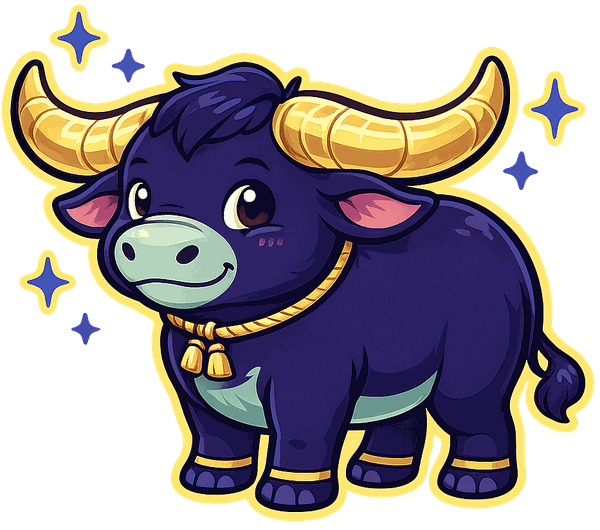
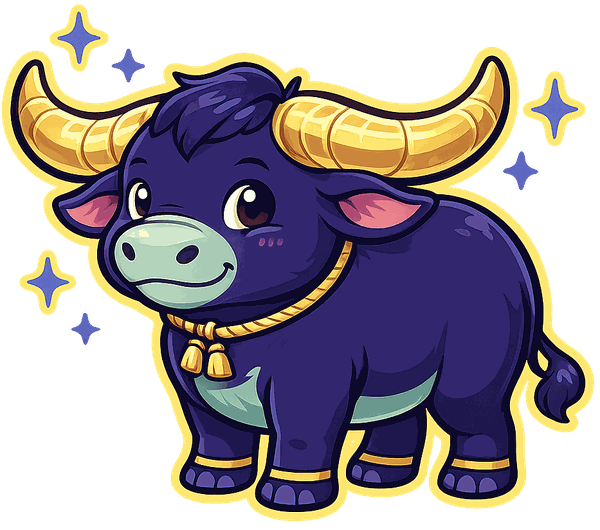
Mascots go a shade lighter — the lightest navy on all 11 (sw v619)
The v615 pass used the deepest of three navy settings. Reviewed at all four
depths side by side, the owner took the LIGHTEST on every one: the deep setting
had pushed several mascots below where the artwork wanted to sit, and the
difference is only 2-3 points of lightness but it reads.

Body fills now sit within a couple of points of --accent (#261B65, L25) —
gecko #2C216B L27, tiger #261B65 L25, khwai #31266D L29.

⚠ betta (L17), meditator (L12) and muaythai (L16) are still the dark ones, and
that is the SOURCE ARTWORK, not the preset: they were L19 / L13 / L18 in the
original purple. A hue rotation can only move the pixels that are there. Those
three want regenerating rather than re-hueing, which the owner is planning.

The LOGO is deliberately unchanged. It stays anchored on #261B65 exactly, so
the mark and the site are one colour rather than two near-misses — reviewed
against three lighter rings and held.

SIZE: net -8.4 KB. Nine are byte-identical (palette rewrite, pixel indices
untouched); khwai and the elephant came out ~9% SMALLER, re-quantised from
their transparent masters with fewer distinct colours at the lighter setting.

All 11 are precached and served cache-first, so the bump is what delivers them.

diff --git a/sw.js b/sw.js
@@ -33,7 +33,13 @@
    this is LOAD-BEARING, not just tidy: change a precached file without bumping
    and clients keep serving the old copy.
    ============================================================ */
-const VERSION = 'v618';   // v618: NO MORE iOS TAP FLASH IN THE NAV. Safari and the PWA paint
+const VERSION = 'v619';   // v619: MASCOTS GO A SHADE LIGHTER. Owner reviewed all 11 at four
+                          // depths and took the lightest navy on every one - the deep pass in
+                          // v615 had pushed several below where the artwork wanted to sit.
+                          // Body fills now land within a couple of points of --accent L25.
+                          // The LOGO is unchanged and stays anchored on #261B65 exactly.
+                          // All 11 are precached and cache-first, so the bump is the delivery.
+                          // v618: NO MORE iOS TAP FLASH IN THE NAV. Safari and the PWA paint
                           // their own -webkit-tap-highlight-color, a translucent blue-grey that
                           // is not in the palette, and nav.js was the one interactive surface
                           // never suppressing it (eight other files already did). Suppressed AND
